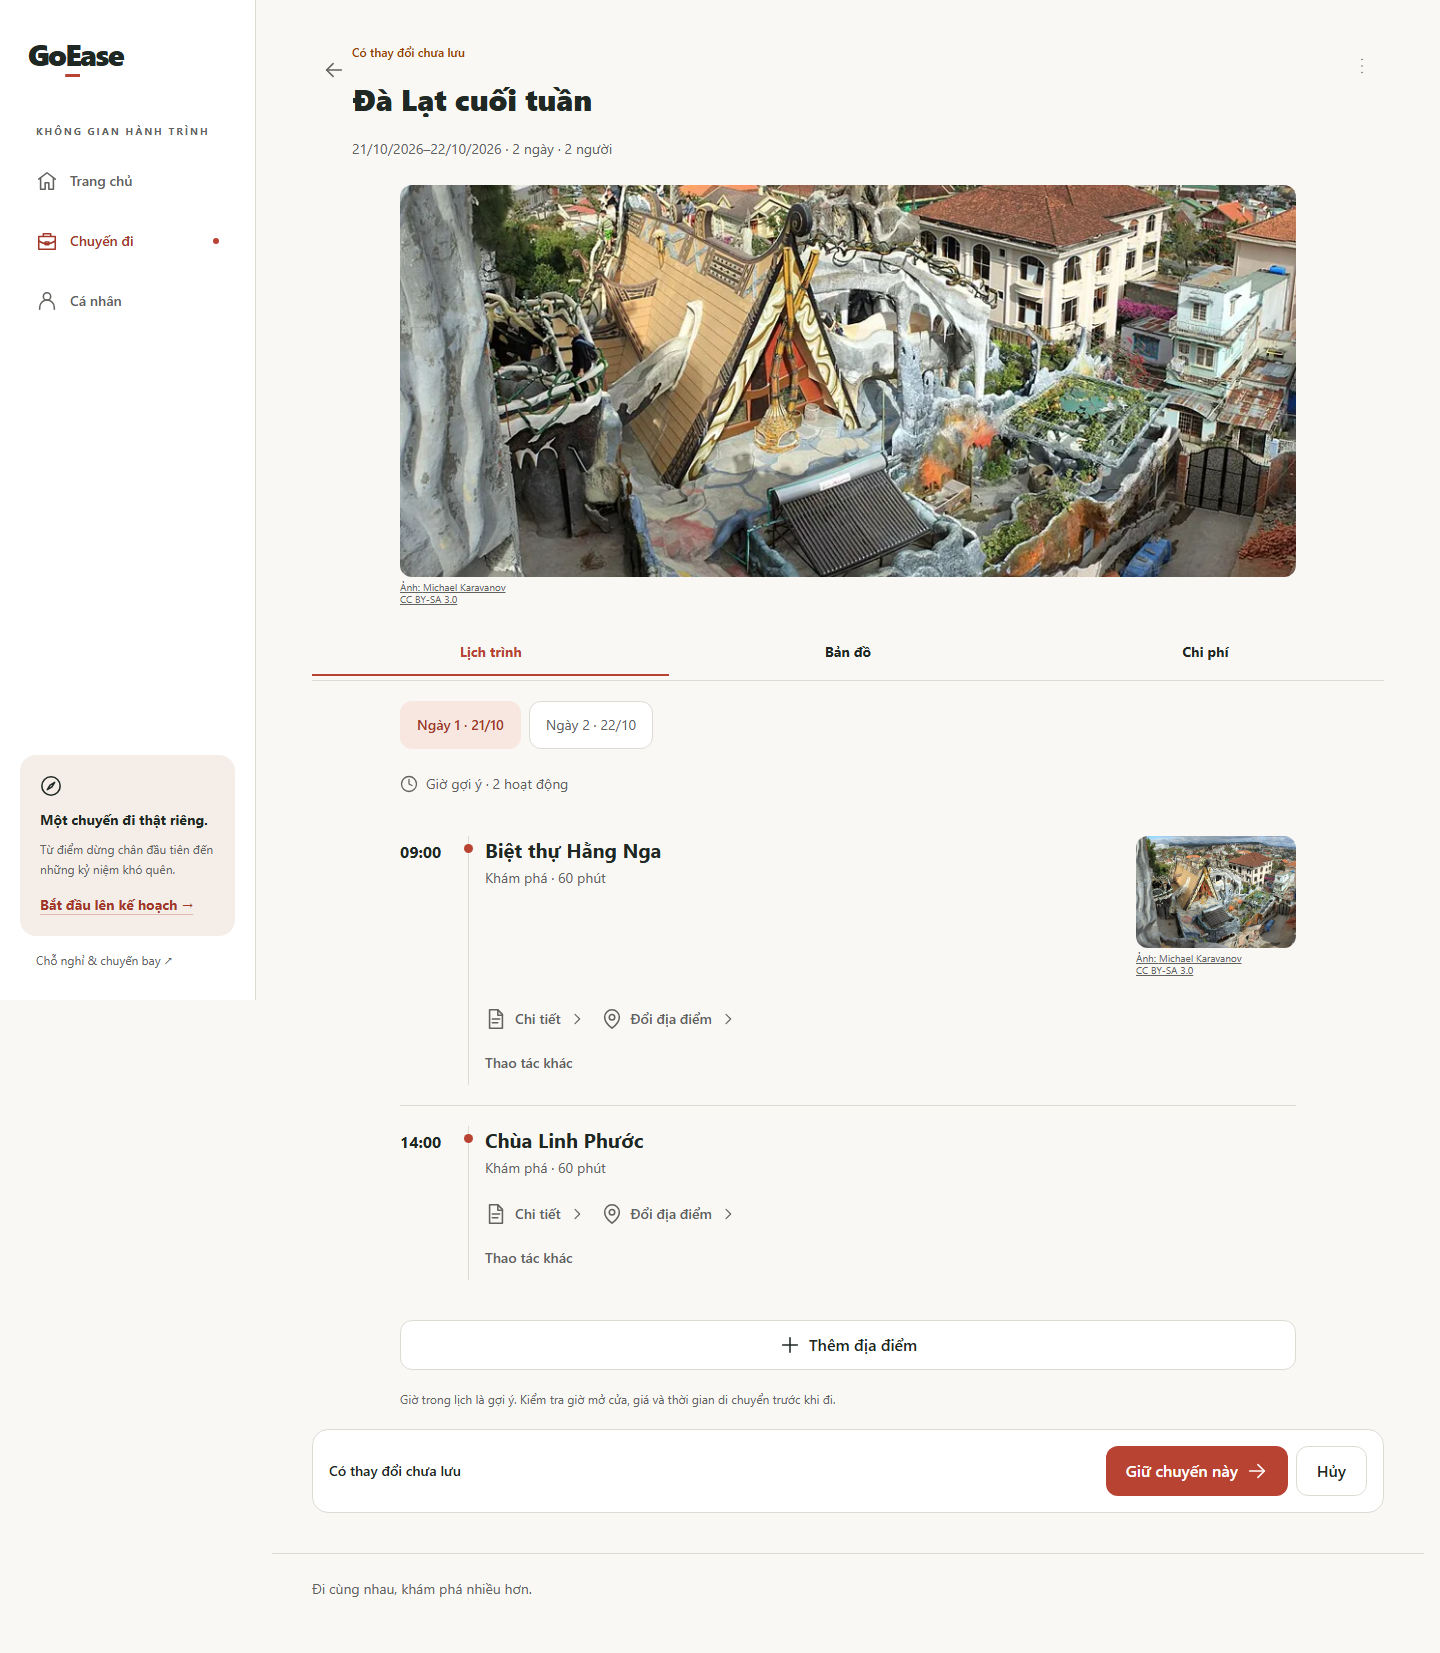
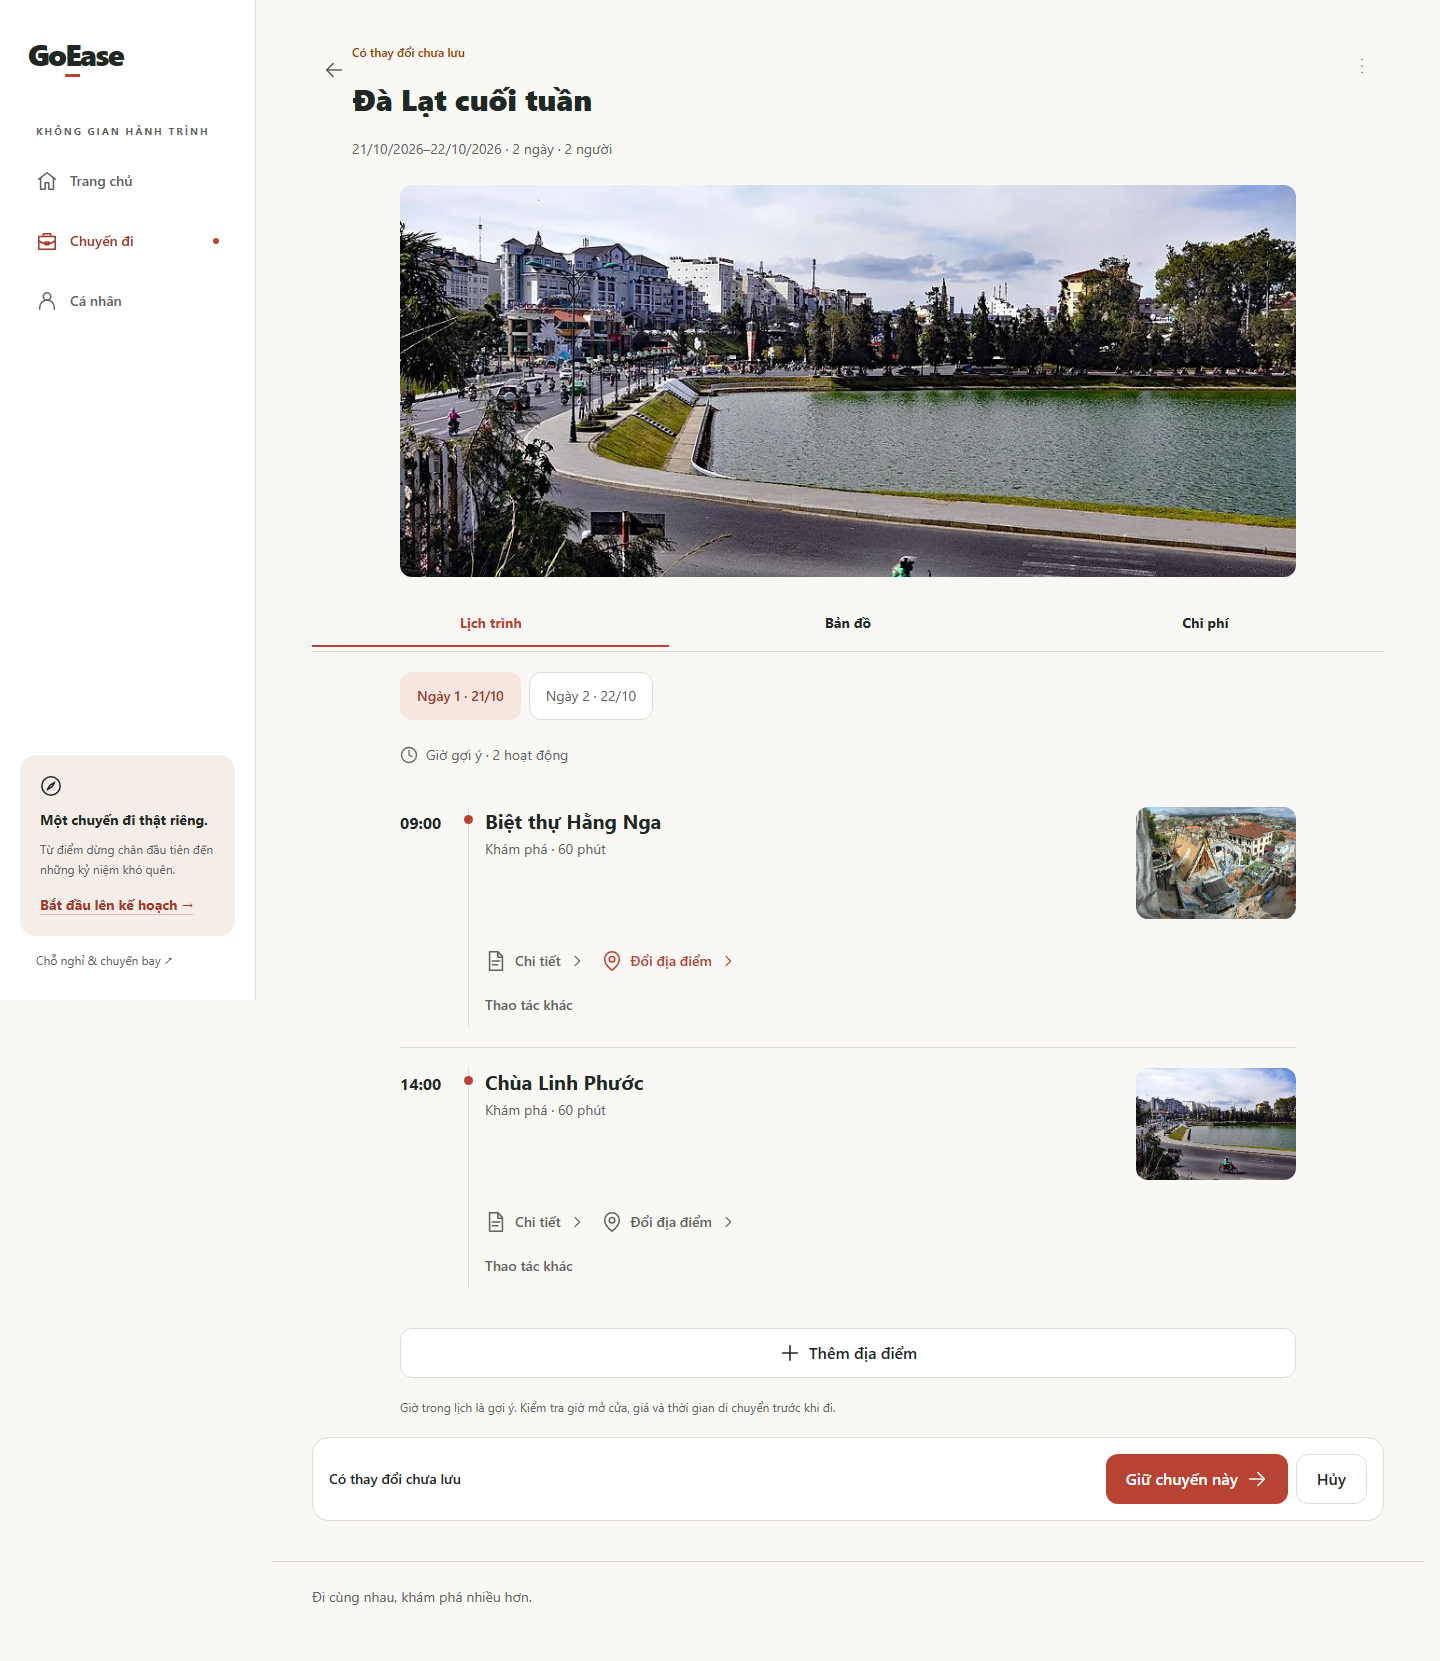
fix(web): keep trip images and move credits into photo info

diff --git a/apps/web/src/features/trips/travel-photo.tsx b/apps/web/src/features/trips/travel-photo.tsx
@@ -1,4 +1,4 @@
-import { useState } from 'react';
+import { useId, useRef, useState } from 'react';
 import type { TravelPhoto } from './travel-photos';
 
 export function TravelPhotoView({
@@ -10,7 +10,6 @@ export function TravelPhotoView({
   className?: string;
   cover?: boolean;
 }) {
-  // A replacement activity/source starts a fresh failure chain.
   const signature = photos.map((photo) => photo.src).join('|');
   return <PhotoChain key={signature} photos={photos} className={className} cover={cover} />;
 }
@@ -25,52 +24,69 @@ function PhotoChain({
   cover: boolean;
 }) {
   const [index, setIndex] = useState(0);
+  const dialog = useRef<HTMLDialogElement>(null);
+  const titleId = useId();
   const photo = photos[index];
   if (!photo) return null;
   return (
     <figure className={`${className} min-w-0`} data-travel-photo>
-      <div
-        className={`relative overflow-hidden rounded-xl bg-sand ${cover ? 'aspect-[16/7]' : 'h-20 sm:h-28'}`}
+      <button
+        type="button"
+        aria-label={`Thông tin ảnh: ${photo.alt}`}
+        aria-haspopup="dialog"
+        onClick={() => dialog.current?.showModal()}
+        className={`block w-full overflow-hidden rounded-xl bg-sand ${cover ? 'aspect-[16/7]' : 'h-20 sm:h-28'}`}
       >
-        {photo ? (
+        <img
+          src={photo.src}
+          alt={photo.alt}
+          width={cover ? 960 : 160}
+          height={cover ? 420 : 112}
+          className="h-full w-full object-cover"
+          loading="lazy"
+          decoding="async"
+          referrerPolicy="no-referrer"
+          onError={() => setIndex((value) => value + 1)}
+        />
+      </button>
+      <dialog
+        ref={dialog}
+        aria-labelledby={titleId}
+        className="fixed inset-0 m-auto max-h-[calc(100dvh-2rem)] w-[calc(100%-2rem)] max-w-md overflow-y-auto rounded-3xl border border-line bg-paper p-6 text-ink shadow-2xl backdrop:bg-ink/45"
+      >
+        <h2 id={titleId} className="text-lg">
+          Thông tin ảnh
+        </h2>
+        <p className="mt-3 text-sm">{photo.alt}</p>
+        <a
+          className="mt-3 block text-sm text-teal underline"
+          href={photo.sourceUrl}
+          target="_blank"
+          rel="noopener noreferrer"
+        >
+          Ảnh: {photo.author}
+        </a>
+        {photo.licenseUrl && (
           <>
-            <img
-              src={photo.src}
-              alt={photo.alt}
-              width={cover ? 960 : 160}
-              height={cover ? 420 : 112}
-              className="h-full w-full object-cover"
-              loading="lazy"
-              decoding="async"
-              referrerPolicy="no-referrer"
-              onError={() => setIndex((value) => value + 1)}
-            />
-          </>
-        ) : null}
-      </div>
-      {photo && (
-        <figcaption className="mt-1 min-w-0 text-[10px] leading-tight text-muted">
-          <a
-            className="block min-w-0 truncate underline"
-            href={photo.sourceUrl}
-            target="_blank"
-            rel="noopener noreferrer"
-            title={`${photo.alt} · ${photo.author}. ${photo.license ? 'Đã thu nhỏ, chuyển WebP và cắt khung hiển thị.' : 'Xem nguồn địa điểm.'}`}
-          >
-            Ảnh: {photo.author}
-          </a>
-          {photo.licenseUrl && (
             <a
-              className="underline"
+              className="mt-2 block text-sm text-teal underline"
               href={photo.licenseUrl}
               target="_blank"
               rel="noopener noreferrer"
             >
               {photo.license}
             </a>
-          )}
-        </figcaption>
-      )}
+            <p className="mt-2 text-sm text-muted">
+              Đã thu nhỏ, chuyển WebP và cắt khung hiển thị.
+            </p>
+          </>
+        )}
+        <form method="dialog" className="mt-5 flex justify-end">
+          <button className="min-h-11 rounded-xl border border-line px-5 text-sm font-semibold">
+            Đóng
+          </button>
+        </form>
+      </dialog>
     </figure>
   );
 }

diff --git a/apps/web/src/features/trips/travel-photos.ts b/apps/web/src/features/trips/travel-photos.ts
@@ -20,6 +20,11 @@ function normalize(value: string) {
     .trim();
 }
 
+export function destinationPhoto(destinationId?: string): TravelPhoto {
+  const photo = curated.find((item) => item.id === destinationId) ?? curated[0];
+  return photo;
+}
+
 export function activityPhotos(activity: Activity, destinationId: string): TravelPhoto[] {
   const name = normalize(activity.name);
   const exact = curated.find(
@@ -27,7 +32,7 @@ export function activityPhotos(activity: Activity, destinationId: string): Trave
       photo.destinationId === destinationId &&
       photo.aliases.some((alias) => name === normalize(alias)),
   );
-  const fallback: TravelPhoto[] = exact ? [exact] : [];
+  const fallback = exact ?? destinationPhoto(destinationId);
   const snapshot = activity.location.kind === 'discovered' ? activity.location.placeSnapshot : null;
   // Read-only selection: do not change saved snapshots or call discovery for imagery.
   if (snapshot?.thumbnailUrl?.startsWith('https://')) {
@@ -38,8 +43,8 @@ export function activityPhotos(activity: Activity, destinationId: string): Trave
         sourceUrl: snapshot.sourceUrl,
         author: 'Nguồn địa điểm',
       },
-      ...fallback,
+      fallback,
     ];
   }
-  return fallback;
+  return [fallback];
 }

diff --git a/apps/web/src/features/trips/trip-cover.tsx b/apps/web/src/features/trips/trip-cover.tsx
@@ -1,14 +1,16 @@
 import type { Trip } from '@goease/contracts';
-import { activityPhotos } from './travel-photos';
+import { activityPhotos, destinationPhoto } from './travel-photos';
 import { TravelPhotoView } from './travel-photo';
 
-export function TripCover({ trip }: { trip: Trip }) {
-  const candidates = trip.days
+export function TripCover({ destinationId, trip }: { destinationId?: string; trip?: Trip }) {
+  const activity = trip?.days
     .flatMap((day) => day.activities)
-    .map((activity) => activityPhotos(activity, trip.destinationId));
+    .find(
+      (item) => item.location.kind === 'discovered' && item.location.placeSnapshot.thumbnailUrl,
+    );
   const photos =
-    candidates.find((photos) => photos[0]?.src.startsWith('https://')) ??
-    candidates.find((photos) => photos.length > 0) ??
-    [];
+    activity && trip
+      ? activityPhotos(activity, trip.destinationId)
+      : [destinationPhoto(destinationId ?? trip?.destinationId)];
   return <TravelPhotoView photos={photos} cover className="mx-auto w-full max-w-4xl" />;
 }

diff --git a/apps/web/src/features/account/account-workspace.tsx b/apps/web/src/features/account/account-workspace.tsx
@@ -4,6 +4,7 @@ import { Button, Notice, dateLabel } from '../../components/ui';
 import { Link, navigate } from '../../app/router';
 import { NewAccountTrip } from '../trips/new-account-trip';
 import { TripView } from '../trips/trip-view';
+import { TripCover } from '../trips/trip-cover';
 import { accountTrips, useAccount } from './session';
 import { confirmAction } from '../../platform/confirmation';
 import { offlineDev } from '../../platform/dev-mode';
@@ -274,6 +275,7 @@ export function AccountWorkspace({
               className="flex min-w-0 flex-col gap-5 rounded-3xl border border-line bg-paper p-5 sm:p-6"
               key={item.id}
             >
+              <TripCover destinationId={item.destinationId} />
               <h3>{item.name}</h3>
               <p>
                 {dateLabel(item.startDate)} · {item.durationDays} ngày · {item.people} người

diff --git a/apps/web/public/travel/README.md b/apps/web/public/travel/README.md
@@ -1,6 +1,6 @@
 # Travel photo credits
 
-These locally bundled photographs are selected from Wikimedia Commons. They are resized and converted to WebP; the UI crops them to fit. Each image retains its own license below (including ShareAlike for the derivative image where applicable). The application displays source/author and license links with the image.
+These locally bundled photographs are selected from Wikimedia Commons. They are resized and converted to WebP; the UI crops them to fit. Each image retains its own license below (including ShareAlike for the derivative image where applicable). The application makes source/author, license links and modification details available in the photo information dialog opened by clicking the image.
 
 Provider thumbnails remain remote, are preferred for discovered places, and link back to the existing place source. They are not downloaded into this library or cached by the service worker.
 
@@ -22,6 +22,6 @@ Provider thumbnails remain remote, are preferred for discovered places, and link
 
 `apps/web/scripts/import-travel-photos.py` records the reviewed file names and exact-place aliases. Run it with Python + Pillow to import those files and regenerate `src/features/trips/curated-photos.json`. Review the source, license, metadata and appearance whenever changing a selection. Existing matching local files are reused; delete an individual WebP first if intentionally refreshing the same source.
 
-Exact matching is scoped to the destination and normalized place name. Following the request to remove illustrative images, city/general overview substitutions are no longer displayed. Only matching place photos and existing provider thumbnails are used; missing or failed imagery collapses without an empty image slot. Saved-trip list cards have no overview cover.
+Exact matching is scoped to the destination and normalized place name. City/general overview substitutions and saved-trip covers are retained. Per the clarified request, no illustration badge or source caption is displayed on/below the image. Clicking the image opens its attribution information. Unknown destination IDs use the Đà Lạt overview as a general illustration, with the actual subject retained in alt text and the information dialog.
 
 Verified metadata and downloaded files: 2026-10-21.

diff --git a/docs/qa/warm-refinement/README.md b/docs/qa/warm-refinement/README.md
@@ -118,3 +118,8 @@ Theo yêu cầu bổ sung, bỏ liên kết “Xem thử một chuyến trước
 ### Remove overview illustrations — 2026-10-21
 
 Per the next request, city/general illustration fallbacks and overview covers in the saved-trip list are removed. Existing provider thumbnails and exact-place curated photos remain. Missing/failed images collapse without a placeholder or unused cover gap; source credits remain for images still displayed. Build, lint and the five affected browser flows pass; screenshots refreshed.
+
+
+### Clarification: keep images, remove visible captions — 2026-10-21
+
+The user clarified that only the “Ảnh minh họa” badge and credits below the image should disappear. Overview fallbacks and list covers are restored. Image buttons open a native photo-information dialog containing the original subject, source/author, license and transformation notes. No badge or attribution caption appears in the normal trip/list layout. Browser checks cover retained images, hidden captions, source/license access, closing by button/Escape, and provider priority/failure/replacement.
